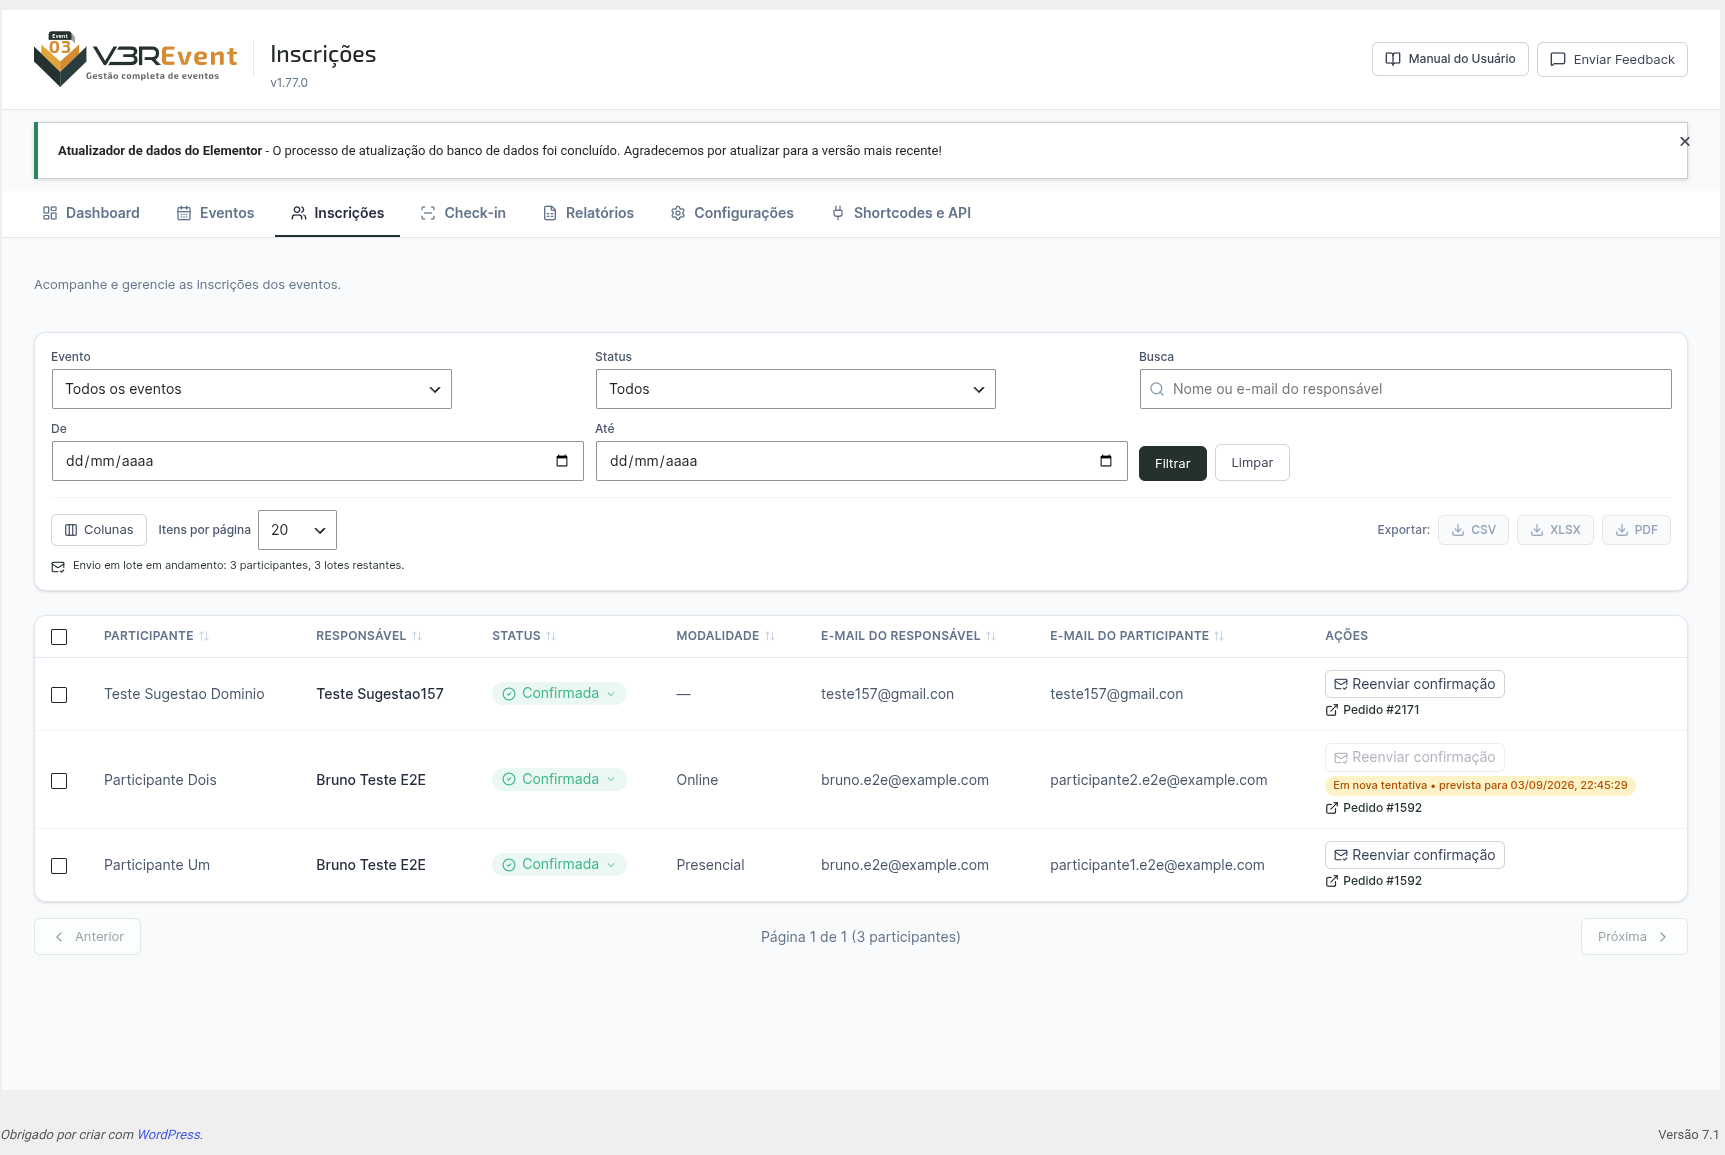
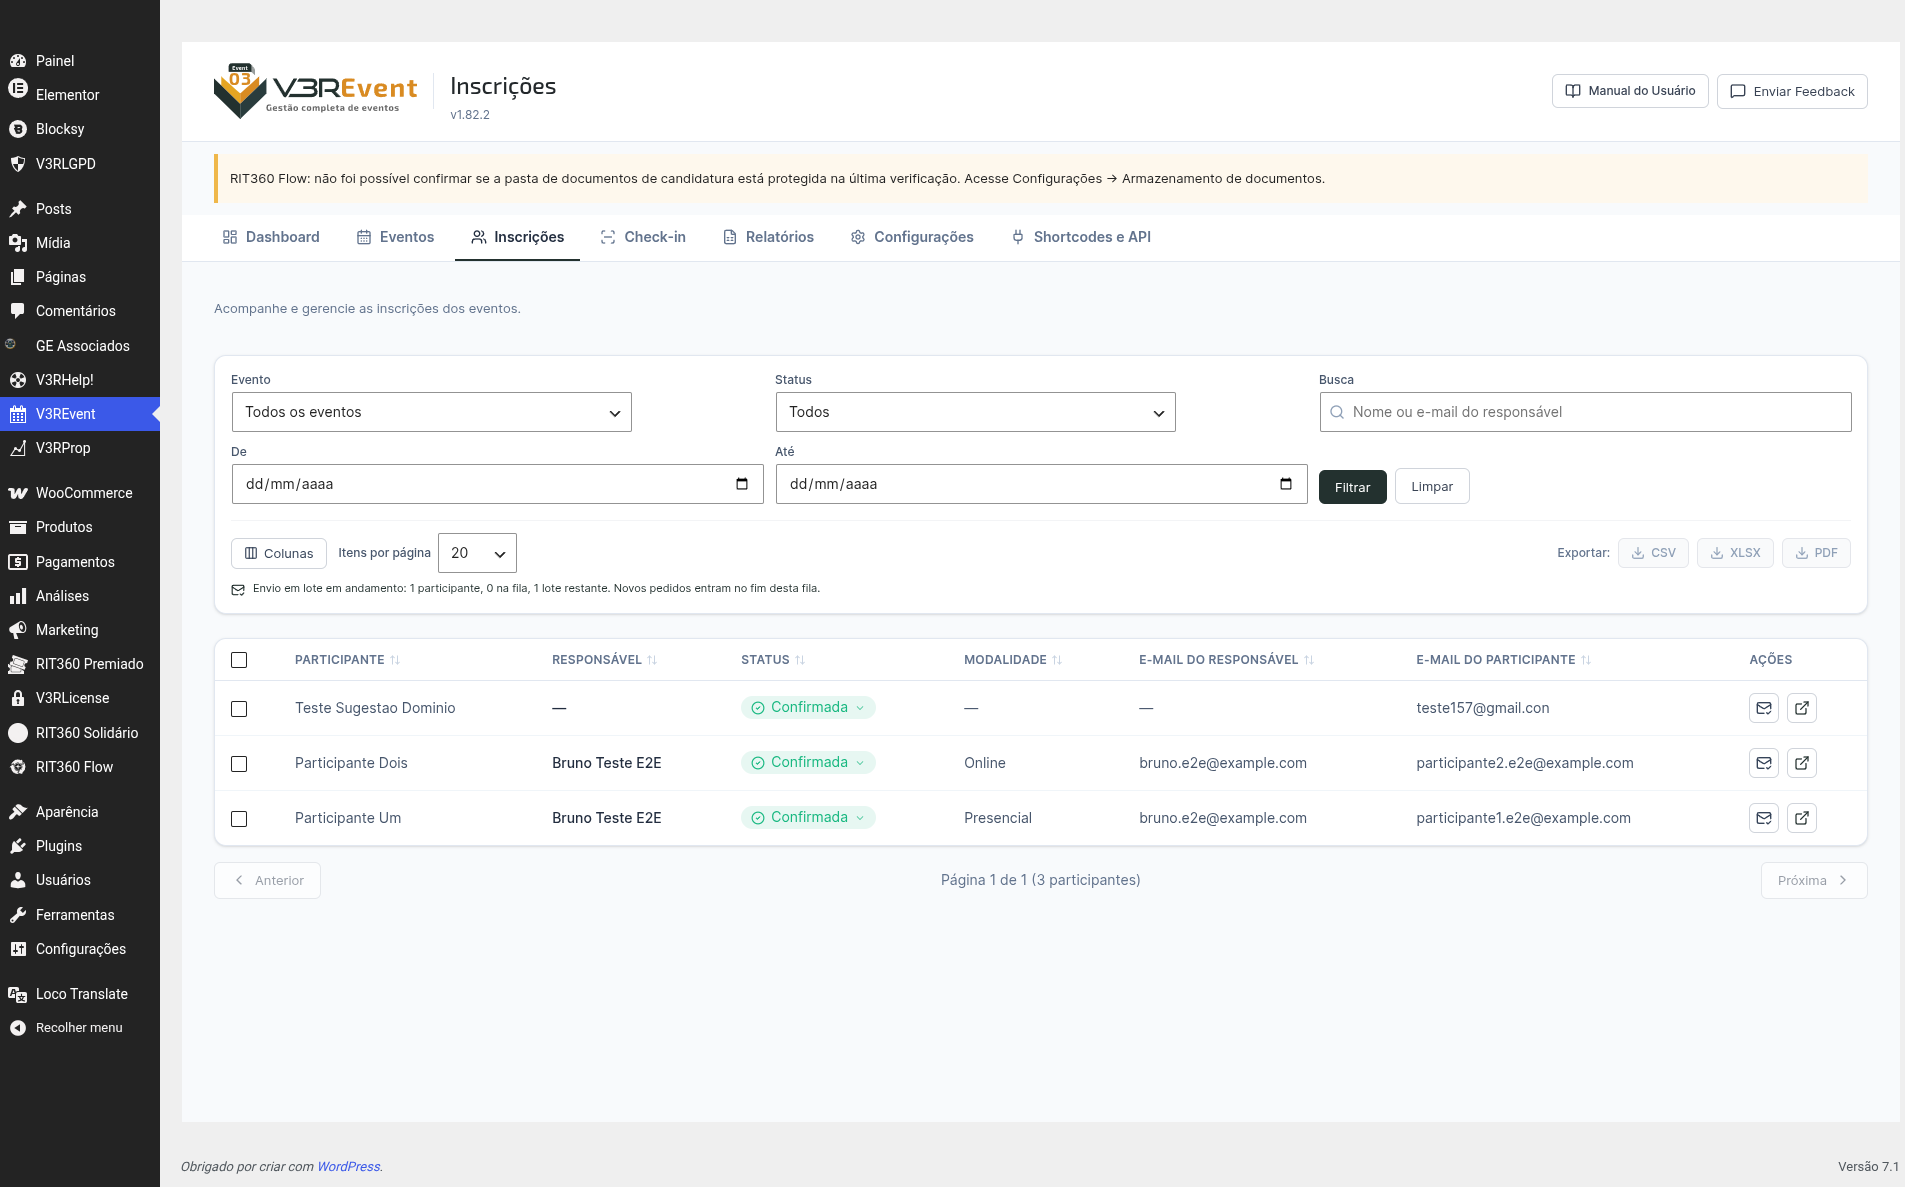
docs(manual): publica 2026-09-04

diff --git a/modulos/inscricoes.md b/modulos/inscricoes.md
@@ -71,7 +71,12 @@ Quando um participante diz que não recebeu o e-mail de confirmação — foi pa
 
 ![Lista de inscritos com o ícone de reenvio em cada linha e a barra de ação em lote com participantes selecionados](/assets/screenshots/inscricoes-reenvio.png)
 
-Na coluna de ações de cada participante, clique no **ícone de envelope**. Passe o mouse sobre ele para confirmar que é o reenvio antes de clicar. O envio é imediato: a tela mostra na hora se foi enviado ou recusado.
+Na coluna **Ações** de cada participante há dois ícones: um **envelope** (reenviar a confirmação) e, ao lado, um **ícone de link externo** que abre o pedido no WooCommerce. Passe o mouse sobre qualquer um dos dois para ver o que ele faz antes de clicar — é assim que você confere, sem precisar clicar, qual é o pedido (o número aparece só na dica ao passar o mouse) e se aquele participante já foi reenviado antes.
+
+{: .tip }
+> **Em celular não há mouse, então esse hover não existe** — o número do pedido e o histórico de reenvios só aparecem em **desktop**. É uma escolha deliberada, não uma falha: no celular, toque no ícone de link para abrir o pedido diretamente.
+
+Clique no envelope para reenviar. O envio é imediato: a tela mostra na hora se foi enviado ou recusado.
 
 Nem toda linha pode receber reenvio:
 
@@ -81,7 +86,7 @@ Nem toda linha pode receber reenvio:
 {: .note }
 > **O recibo só acompanha quando o participante é quem pagou.** Numa inscrição individual, reenviar a confirmação reenvia também o recibo, porque a mesma pessoa é participante e responsável. Numa inscrição em grupo (uma empresa ou escola inscrevendo várias pessoas), reenviar para um participante manda **só a confirmação dele** — o recibo tem o valor total do pedido e os dados de quem pagou, e não deveria ir para cada participante do grupo. Quem precisa do recibo é sempre o responsável, que já o recebeu por e-mail e pode reemitir pelo link permanente (veja **[Documentos](/modulos/documentos/)**).
 
-Já reenviado antes? Abaixo do botão aparece **"Reenviado Nx • último em [data]"** — assim você não manda cinco cópias porque três pessoas já pediram a mesma coisa.
+Já reenviado antes? Passe o mouse sobre o envelope: a dica mostra **"Reenviado Nx, último em [data]"** — assim você não manda cinco cópias porque três pessoas já pediram a mesma coisa.
 
 ### Reenvio em lote
 
@@ -95,16 +100,20 @@ Marque os participantes pela caixa de seleção de cada linha, ou marque **todos
 Antes de disparar, uma confirmação mostra **quantas pessoas realmente vão receber** o e-mail — o sistema já desconta quem está pendente/cancelado desse número, então a confirmação nunca superestima. Esse envio "por filtro" tem um teto de **1000 participantes por disparo**; se o filtro tiver mais gente que isso, o excedente não é processado e o resultado avisa isso explicitamente.
 
 {: .important }
-> **Envio grande é gradual — e isso é esperado, não travamento.** Passando de um certo volume, o V3REvent não manda tudo de uma vez: ele despacha em **lotes de 100 mensagens a cada 5 minutos** (esses dois números são configuráveis pela equipe técnica, se o seu servidor de e-mail exigir outro ritmo), para não sobrecarregar o envio de e-mail do site. A confirmação já avisa quando isso vai acontecer e estima a duração; enquanto o envio corre, um aviso na própria tela mostra quantos participantes e quantos lotes ainda faltam. Se você tentar disparar outro envio em lote nesse meio-tempo, a tela recusa e pede para aguardar o que já está em andamento — **é para não haver dois lotes concorrentes reenviando para a mesma lista**.
+> **Envio grande é gradual — e isso é esperado, não travamento.** Passando de um certo volume, o V3REvent não manda tudo de uma vez: ele despacha em **lotes de 100 mensagens a cada 5 minutos** (esses dois números são configuráveis pela equipe técnica, se o seu servidor de e-mail exigir outro ritmo), para não sobrecarregar o envio de e-mail do site. A confirmação já avisa quando isso vai acontecer e estima a duração; enquanto o envio corre, um aviso na própria tela mostra quantos participantes e quantos lotes ainda faltam.
+
+{: .note }
+> **Um segundo envio em lote, pedido enquanto o primeiro ainda corre, entra na fila — não é recusado.** Ele espera o que já está em andamento terminar e só então começa a despachar os seus próprios lotes; o ritmo (100 mensagens a cada 5 minutos) é o mesmo para todos, então pedir de novo **alonga a fila**, nunca acelera o envio. Isso ajuda o caso comum de reenviar aos poucos, conforme você vai encontrando quem precisa: seleciona um grupo numa página da lista e manda, depois acha outro grupo em outra página (ou outro filtro) e manda de novo — sem precisar esperar o primeiro terminar para pedir o segundo.
 
 ### Nova tentativa automática quando o envio falha
 
-![Linha com a etiqueta "Em nova tentativa" e a data prevista, com o botão de reenvio desabilitado](/assets/screenshots/inscricoes-em-nova-tentativa.png)
+Quando um envio (automático ou reenvio) esbarra num problema **temporário** — o servidor de e-mail fora do ar, um limite de envio momentâneo, a caixa de entrada cheia —, o V3REvent **tenta de novo sozinho**, até 3 vezes, com um intervalo cada vez maior entre as tentativas. Enquanto isso, o **ícone de envelope daquele participante fica acinzentado e desabilitado** — sem a cor de sempre, sinal de que não há nada para você fazer ali. Passe o mouse sobre o ícone para ver a previsão: **"Nova tentativa automática a caminho, prevista para [data e hora]"**, seguida do histórico de reenvio quando já houver um (**"— reenviado Nx, último em [data]"**).
 
-Quando um envio (automático ou reenvio) esbarra num problema **temporário** — o servidor de e-mail fora do ar, um limite de envio momentâneo, a caixa de entrada cheia —, o V3REvent **tenta de novo sozinho**, até 3 vezes, com um intervalo cada vez maior entre as tentativas. Enquanto isso, o participante aparece com a etiqueta **"Em nova tentativa"**.
+{: .tip }
+> **Em celular não há como passar o mouse**, então essa previsão não aparece lá — só o ícone acinzentado, indicando que o envio está sendo cuidado sozinho. É uma escolha deliberada, do mesmo tipo já explicada para o número do pedido (veja **[Reenvio individual](#reenvio-individual)**).
 
 {: .note }
-> **"Em nova tentativa" quer dizer "não faça nada agora".** É exatamente por isso que o reenvio manual fica desabilitado nesse estado (veja acima) — reenviar por cima de uma tentativa automática já agendada duplicaria o envio assim que ela desse certo. Espere: se a nova tentativa funcionar, o estado muda sozinho para enviado; se as três tentativas se esgotarem, a falha é registrada como definitiva e o reenvio manual volta a ficar disponível.
+> **Ícone acinzentado quer dizer "não faça nada agora".** É exatamente por isso que o reenvio manual fica desabilitado nesse estado — reenviar por cima de uma tentativa automática já agendada duplicaria o envio assim que ela desse certo. Espere: se a nova tentativa funcionar, o ícone volta ao normal (enviado); se as três tentativas se esgotarem, a falha é registrada como definitiva e o reenvio manual volta a ficar disponível.
 
 Nem toda falha é retentada: **endereço de e-mail ausente ou claramente inválido não entra em nova tentativa automática**, porque insistir não resolve — o problema é o dado, não o envio. Nesse caso, corrija o e-mail do participante e use o reenvio manual.
 

diff --git a/novidades.md b/novidades.md
@@ -12,6 +12,36 @@ O que mudou no V3REvent, em linguagem simples — **da mais recente para a mais 
 
 ---
 
+## O aviso de nova tentativa automática virou dica do ícone, não mais uma etiqueta na linha
+**v1.82.2 · setembro de 2026**
+
+A etiqueta âmbar **"Em nova tentativa"**, introduzida na v1.77.0, saiu da lista **Inscrições**. No lugar dela, o participante nesse estado aparece com o **ícone de reenvio acinzentado e desabilitado** — passe o mouse sobre ele (no computador) para ver a previsão, algo como *"Nova tentativa automática a caminho, prevista para 06/09/2026, 22:11:38"*, somada ao histórico de reenvio quando já houver um. O comportamento por trás continua o mesmo (o sistema tenta de novo sozinho, até 3 vezes); só a forma de avisar mudou, para caber na coluna mais enxuta introduzida na v1.82.1. Veja **[Inscrições → Nova tentativa automática](/modulos/inscricoes/#nova-tentativa-automática-quando-o-envio-falha)**.
+
+{: .note }
+> **No celular não há como passar o mouse**, então a previsão não aparece lá — só o ícone acinzentado, indicando que o envio está sendo cuidado sozinho.
+
+## Coluna Ações mais enxuta na lista de inscritos
+**v1.82.1 · setembro de 2026**
+
+Na lista **Inscrições**, o número do pedido ao lado do ícone de reenvio (antes escrito por extenso, "Pedido #1319") virou um **ícone**, e o número passa a aparecer só ao **passar o mouse** sobre ele. O histórico de reenvio ("Reenviado Nx, último em...") saiu de baixo do botão e foi para a **dica do próprio ícone de reenvio** — nessa versão, o aviso "Em nova tentativa" ainda seguia visível como etiqueta na linha (isso mudou logo em seguida, veja a novidade da v1.82.2 acima). A coluna fica mais curta e mais fácil de ler, sobretudo com muitos participantes na tela.
+
+{: .note }
+> **No celular não há como passar o mouse**, então o número do pedido e o histórico de reenvios não aparecem lá — é uma escolha deliberada, não uma falha. No celular, toque no ícone de link para abrir o pedido. Veja **[Inscrições → Reenvio individual](/modulos/inscricoes/#reenvio-individual)**.
+
+## Reenvio em lote: pedido novo entra na fila, e o envio que não saía foi corrigido
+**v1.82.0 · setembro de 2026**
+
+Pedir um reenvio em lote enquanto **outro já está em andamento** deixou de ser recusado — agora o pedido novo **entra no fim da fila** e começa a ser despachado assim que o anterior terminar. Isso ajuda quem reenvia aos poucos, conforme vai encontrando quem precisa em páginas ou filtros diferentes da lista: manda para um grupo, acha outro grupo depois, manda de novo, sem esperar. O ritmo continua o mesmo para todos (100 mensagens a cada 5 minutos), então acumular pedidos na fila **alonga a espera**, nunca acelera. Veja **[Inscrições → Reenvio em lote](/modulos/inscricoes/#reenvio-em-lote)**.
+
+Também corrigimos um defeito: em algumas situações, o **reenvio em lote não estava enviando nada**, embora a tela confirmasse o pedido normalmente. Se você usou o reenvio em lote entre as versões afetadas, vale conferir se as pessoas realmente receberam o e-mail — pelo Mailpit/log de envio do seu servidor, ou perguntando a quem deveria ter recebido.
+
+## E-mail de acesso à área do inscrito agora é editável
+**v1.81.0 · setembro de 2026**
+
+O texto do **e-mail de acesso à Área do Inscrito** — o que leva o link para quem pede para reencontrar as próprias inscrições — deixou de ser fixo. Em **Configurações → E-mails** ele ganhou seu próprio bloco, com **assunto**, **corpo**, a explicação de quando é disparado, e as variáveis `{access_url}`, `{valid_hours}`, `{site_name}` e `{site_url}`. Veja **[Configurações → E-mails](/modulos/configuracoes/#e-mails)**.
+
+---
+
 ## Correção de privacidade na Área do Inscrito
 **v1.79.2 · setembro de 2026**
 
@@ -46,7 +76,7 @@ A aba **Credencial** do editor de evento ganhou um controle **Oferecer credencia
 
 O reenvio "para todos os que correspondem ao filtro" deixou de ter um teto de alcance — antes, um filtro com mais de mil participantes deixava o excedente inalcançável, mesmo repetindo a operação. Agora o envio chega a todos, em qualquer volume, só que de forma **gradual**: em lotes de 100 mensagens a cada 5 minutos, para não sobrecarregar o servidor de e-mail do site. Antes de confirmar um envio grande, a tela avisa que ele será gradual e estima quanto tempo leva; enquanto ele roda, um aviso mostra quantos lotes ainda faltam — para você não achar que travou e mandar de novo.
 
-Além disso, uma indisponibilidade passageira no envio de e-mail (servidor fora do ar por instantes, limite de taxa, caixa cheia) deixa de derrubar o envio de vez: o V3REvent **tenta de novo sozinho**, até três vezes, com intervalo crescente — com o participante marcado como **"Em nova tentativa"** enquanto isso acontece. E-mail ausente ou claramente inválido não entra nessa recuperação automática, porque nesse caso o problema é o dado, não o envio. Veja **[Inscrições → Reenviar a confirmação de inscrição](/modulos/inscricoes/#reenviar-a-confirmação-de-inscrição)**.
+Além disso, uma indisponibilidade passageira no envio de e-mail (servidor fora do ar por instantes, limite de taxa, caixa cheia) deixa de derrubar o envio de vez: o V3REvent **tenta de novo sozinho**, até três vezes, com intervalo crescente — com o participante marcado como **"Em nova tentativa"** enquanto isso acontece (a partir da v1.82.2 esse aviso deixou de ser uma etiqueta na linha e passou a aparecer ao passar o mouse sobre o ícone de reenvio acinzentado). E-mail ausente ou claramente inválido não entra nessa recuperação automática, porque nesse caso o problema é o dado, não o envio. Veja **[Inscrições → Reenviar a confirmação de inscrição](/modulos/inscricoes/#reenviar-a-confirmação-de-inscrição)**.
 
 ## Sugestão de correção de e-mail no formulário público
 **v1.76.0 · setembro de 2026**

diff --git a/modulos/configuracoes.md b/modulos/configuracoes.md
@@ -23,18 +23,19 @@ Os dados da organização que promove os eventos — reaproveitados em recibos, 
 
 ## E-mails
 
-Os templates da comunicação automática.
+Os templates da comunicação automática — três, cada um com **assunto** e **corpo** próprios.
 
 ![Configurações — aba E-mails](/assets/screenshots/config-emails.png)
 
-- **Remetente** (nome e e-mail);
-- **Template de confirmação** (enviado a cada participante);
-- **Template de relatório** (enviado ao responsável).
+- **Remetente** (nome e e-mail), no topo, vale para os três;
+- **E-mail de confirmação** (enviado a cada participante ao confirmar a inscrição);
+- **E-mail de relatório** (enviado ao responsável, com o resumo e o anexo dos inscritos);
+- **E-mail de acesso à área do inscrito** (enviado a quem pede o link na **[Área do Inscrito](/modulos/area-do-inscrito/)**, informando o e-mail usado na inscrição).
 
-Os templates aceitam **variáveis** (como o nome do evento, o nome do participante e o **código de inscrição**), exibidas como dica na própria tela. Cada evento pode sobrescrever esses textos.
+Cada bloco mostra, abaixo do texto, **quando aquele e-mail é disparado** e as **variáveis** que valem ali — exibidas como dica na própria tela, e diferentes entre os três (o de confirmação usa `{event_name}`, `{attendee_name}` etc.; o de acesso usa `{access_url}`, `{valid_hours}`, `{site_name}` e `{site_url}`). Cada evento pode sobrescrever os dois primeiros; o e-mail de acesso é único para toda a organização, já que a Área do Inscrito não é de um evento específico.
 
-{: .note }
-> O **e-mail de acesso à Área do Inscrito** (o link enviado a quem pede para reencontrar as próprias inscrições) já sai com um texto pronto, mas **ainda não aparece nesta lista para você editar** — ao contrário dos dois templates acima. Se quiser um texto diferente do padrão, fale com o suporte.
+{: .tip }
+> **O e-mail de acesso à área do inscrito traz um link pessoal, de uso único, que expira em algumas horas.** Vale manter no texto a frase avisando isso (o padrão já traz) — é o que evita que alguém encaminhe a mensagem achando que o link continua valendo depois.
 
 ## Aparência
 

diff --git a/faq.md b/faq.md
@@ -191,9 +191,10 @@ Inscrito](/modulos/area-do-inscrito/)**: a pessoa informa lá o e-mail usado na
 inscrição e recebe sozinha um link de acesso, sem depender de você. Se preferir
 resolver você mesmo, peça para conferir a caixa de spam primeiro; não achando, vá
 em **Inscrições**, encontre o participante e clique em **Reenviar confirmação** —
-funciona para qualquer inscrição já **confirmada**. Se a linha mostrar a etiqueta
-**"Em nova tentativa"**, não reenvie: o próprio sistema já está tentando de novo
-sozinho, e o botão fica temporariamente desabilitado por causa disso. Veja
+funciona para qualquer inscrição já **confirmada**. Se o ícone de reenvio aparecer
+**acinzentado**, não force: passe o mouse sobre ele (no computador) para confirmar
+— a dica mostra "Nova tentativa automática a caminho" — e não reenvie, o próprio
+sistema já está tentando de novo sozinho. Veja
 **[Inscrições → Reenviar a confirmação de inscrição](/modulos/inscricoes/#reenviar-a-confirmação-de-inscrição)**.
 </details>
 

diff --git a/modulos/area-do-inscrito.md b/modulos/area-do-inscrito.md
@@ -82,4 +82,4 @@ Quem gerencia o evento **não vê nem monta nada** a partir desta tela — ela n
 
 - A página é marcada como **não indexável** para buscadores (ela lida com dado pessoal, então não deve aparecer em busca).
 - Um pedido de exclusão de dados (LGPD) apaga também os links de acesso daquele e-mail, mesmo que a pessoa nunca tenha se inscrito em nada.
-- O e-mail de acesso sai com um texto pronto; diferente dos demais e-mails automáticos do plugin, ele **ainda não pode ser personalizado** por você — veja **[Configurações → E-mails](/modulos/configuracoes/)**.
+- O e-mail de acesso sai com um texto pronto, mas **pode ser personalizado** — assunto, corpo e as variáveis `{access_url}`, `{valid_hours}`, `{site_name}` e `{site_url}` — em **[Configurações → E-mails](/modulos/configuracoes/#e-mails)**, no bloco "E-mail de acesso à área do inscrito".
